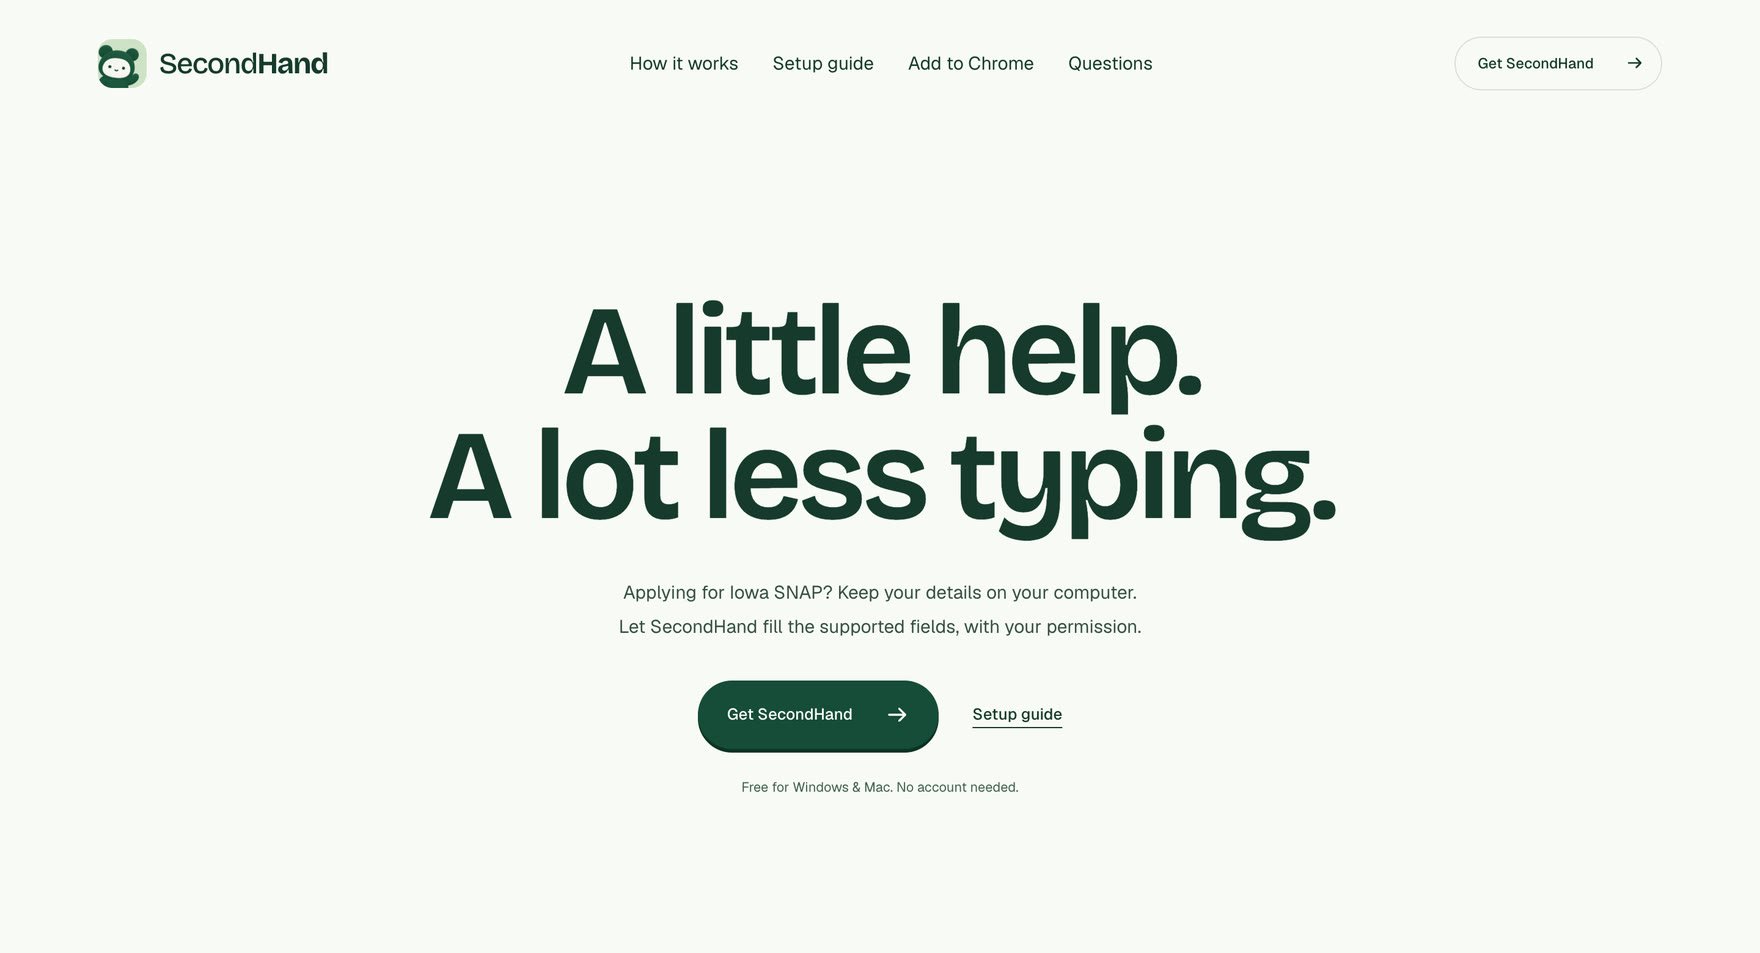
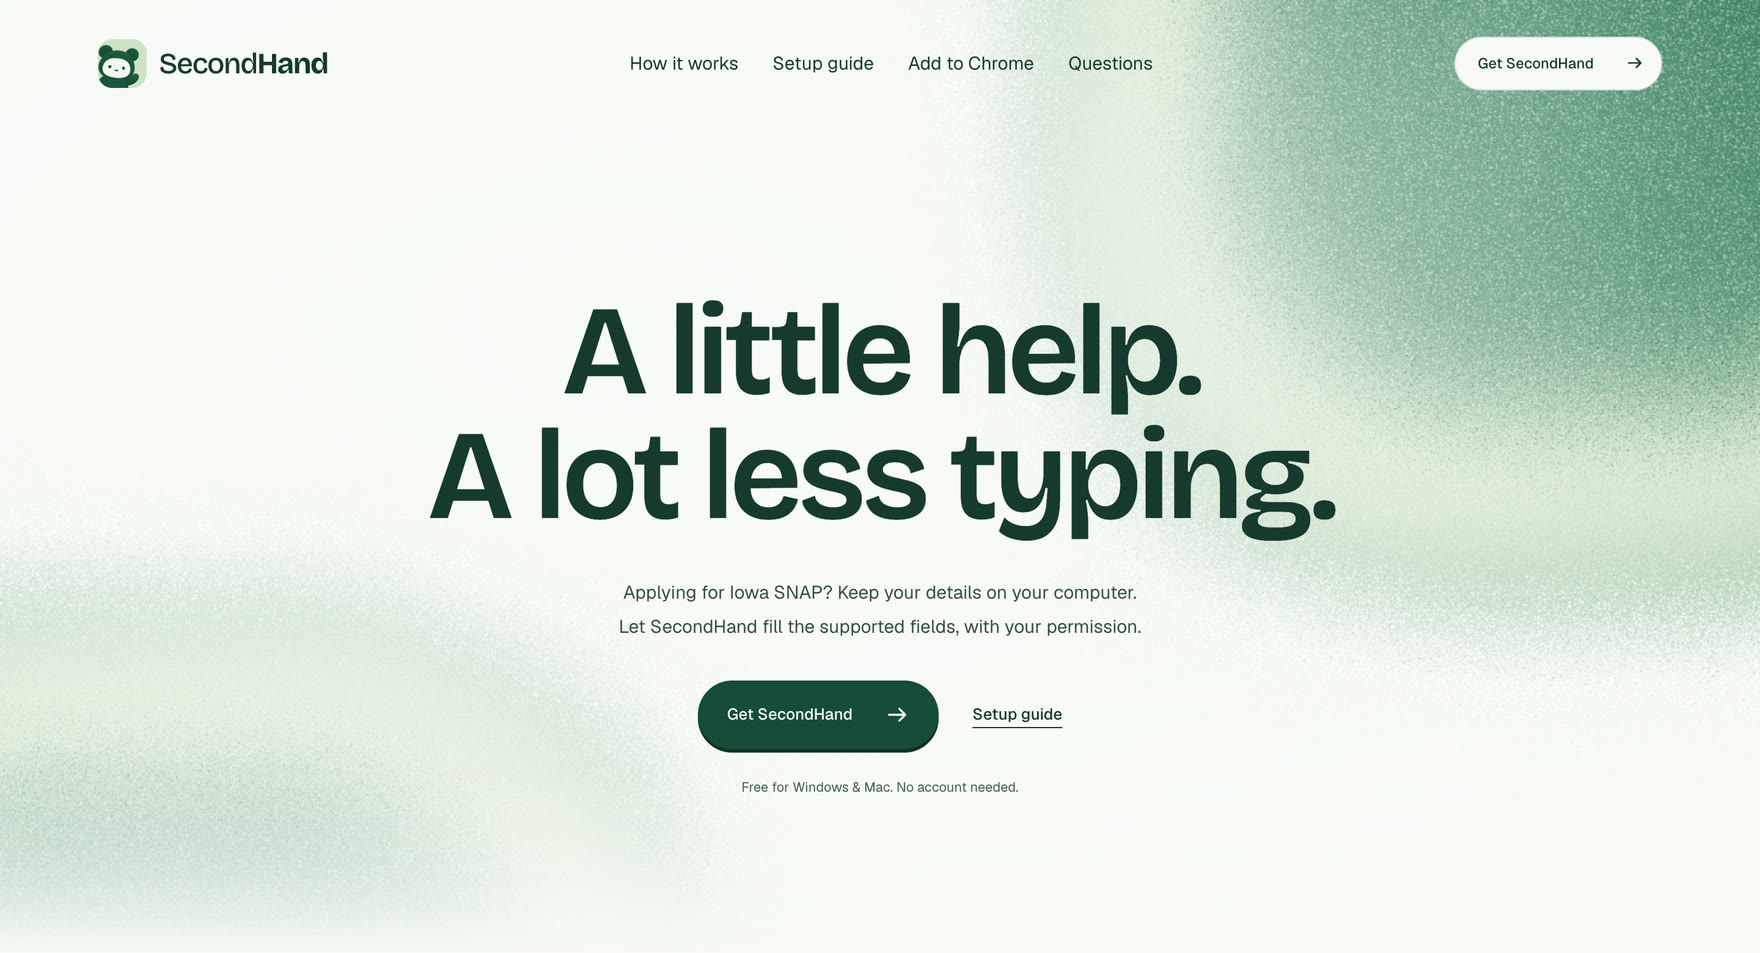
docs: the README picture and the website guide show the hero's gradient again

Changed region(s): [[0.5625, 0.0, 1.0, 0.6999], [0.0, 0.5782, 0.375, 0.9738]]

diff --git a/docs/applications/website.md b/docs/applications/website.md
@@ -67,6 +67,7 @@ Source responsibilities:
 | [scripts/publish-downloads.mjs](../../website/scripts/publish-downloads.mjs) | Maintainer upload and round-trip byte verification |
 | [app/globals.css](../../website/app/globals.css) | Visual system and responsive presentation |
 | [app/_home/autofill-demo.tsx](../../website/app/_home/autofill-demo.tsx) | Fictional click-to-autofill illustration |
+| [app/_home/gradient-background.tsx](../../website/app/_home/gradient-background.tsx) | Decorative shader and fallback |
 | [app/_home/text-type.tsx](../../website/app/_home/text-type.tsx) | Animated demo heading |
 | [app/_components/variable-wordmark.tsx](../../website/app/_components/variable-wordmark.tsx) | Responsive decorative footer wordmark |
 
@@ -76,7 +77,7 @@ Navigation uses ordinary anchors. Full-document navigation is intentional, espec
 
 The site uses forest green, soft white, sage accents, the green mascot, and self-hosted Bricolage Grotesque/Geist fonts. The browser does not need third-party font or script hosts for those assets.
 
-The hero sits on the page's own flat color, with no gradient or shader. Reduced-motion settings should show stable content. Animations pause offscreen or while hidden. The typed heading and illustrative form retain meaningful static content without JavaScript.
+The hero shader initializes after hydration, with a CSS fallback if WebGL is unavailable or lost. Reduced-motion settings should show stable content. Animations pause offscreen or while hidden; the shader has a 1.5-million-pixel cap. The typed heading and illustrative form retain meaningful static content without JavaScript.
 
 Keep semantic labels, keyboard behavior, focus states, and narrow-screen layouts when editing animated components. The synthetic form illustration must remain clearly separate from actual applicant-data collection.
 

diff --git a/README.md b/README.md
@@ -345,7 +345,7 @@ The extension talks to the app through Chrome's native messaging, a direct conne
 | Tests | Node's test runner, jsdom, Playwright (Electron and Chromium) | 1,900+ tests on synthetic data only |
 
 <p align="center">
-  <a href="https://secondhand.ethanpam.workers.dev"><img src="docs/media/website-home.jpg" width="880" alt="The SecondHand download website: the words A little help. A lot less typing. on a plain light background, with How it works, Setup guide, Add to Chrome and Questions links, a Get SecondHand button, and a Setup guide link."></a>
+  <a href="https://secondhand.ethanpam.workers.dev"><img src="docs/media/website-home.jpg" width="880" alt="The SecondHand download website: the words A little help. A lot less typing. over a soft animated green gradient, with How it works, Setup guide, Add to Chrome and Questions links, a Get SecondHand button, and a Setup guide link."></a>
   <br>
   <sub>The download website, where the installers live.</sub>
 </p>
